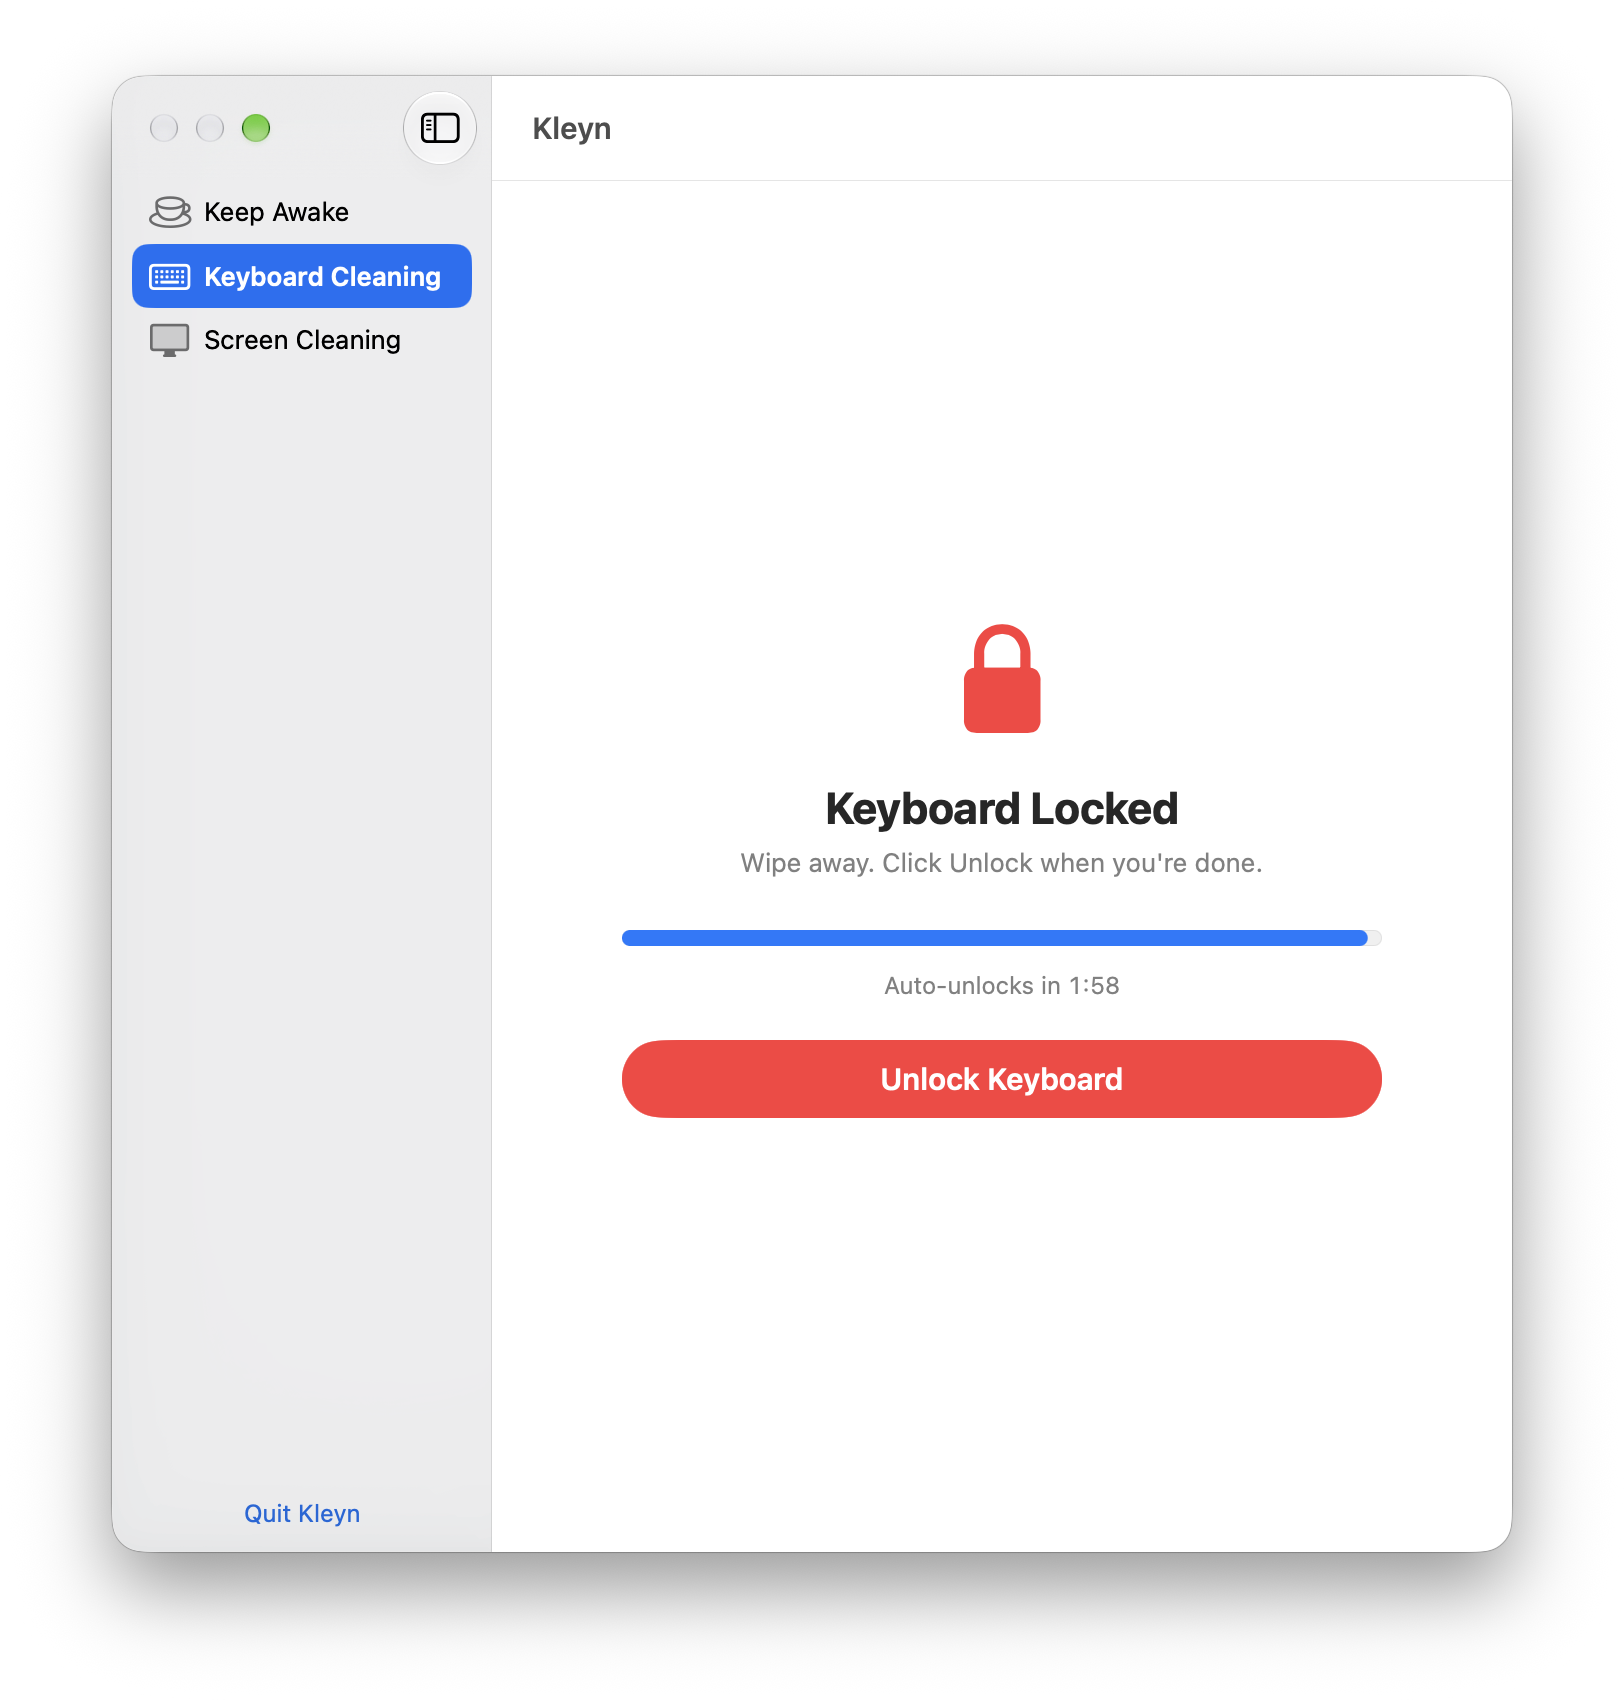
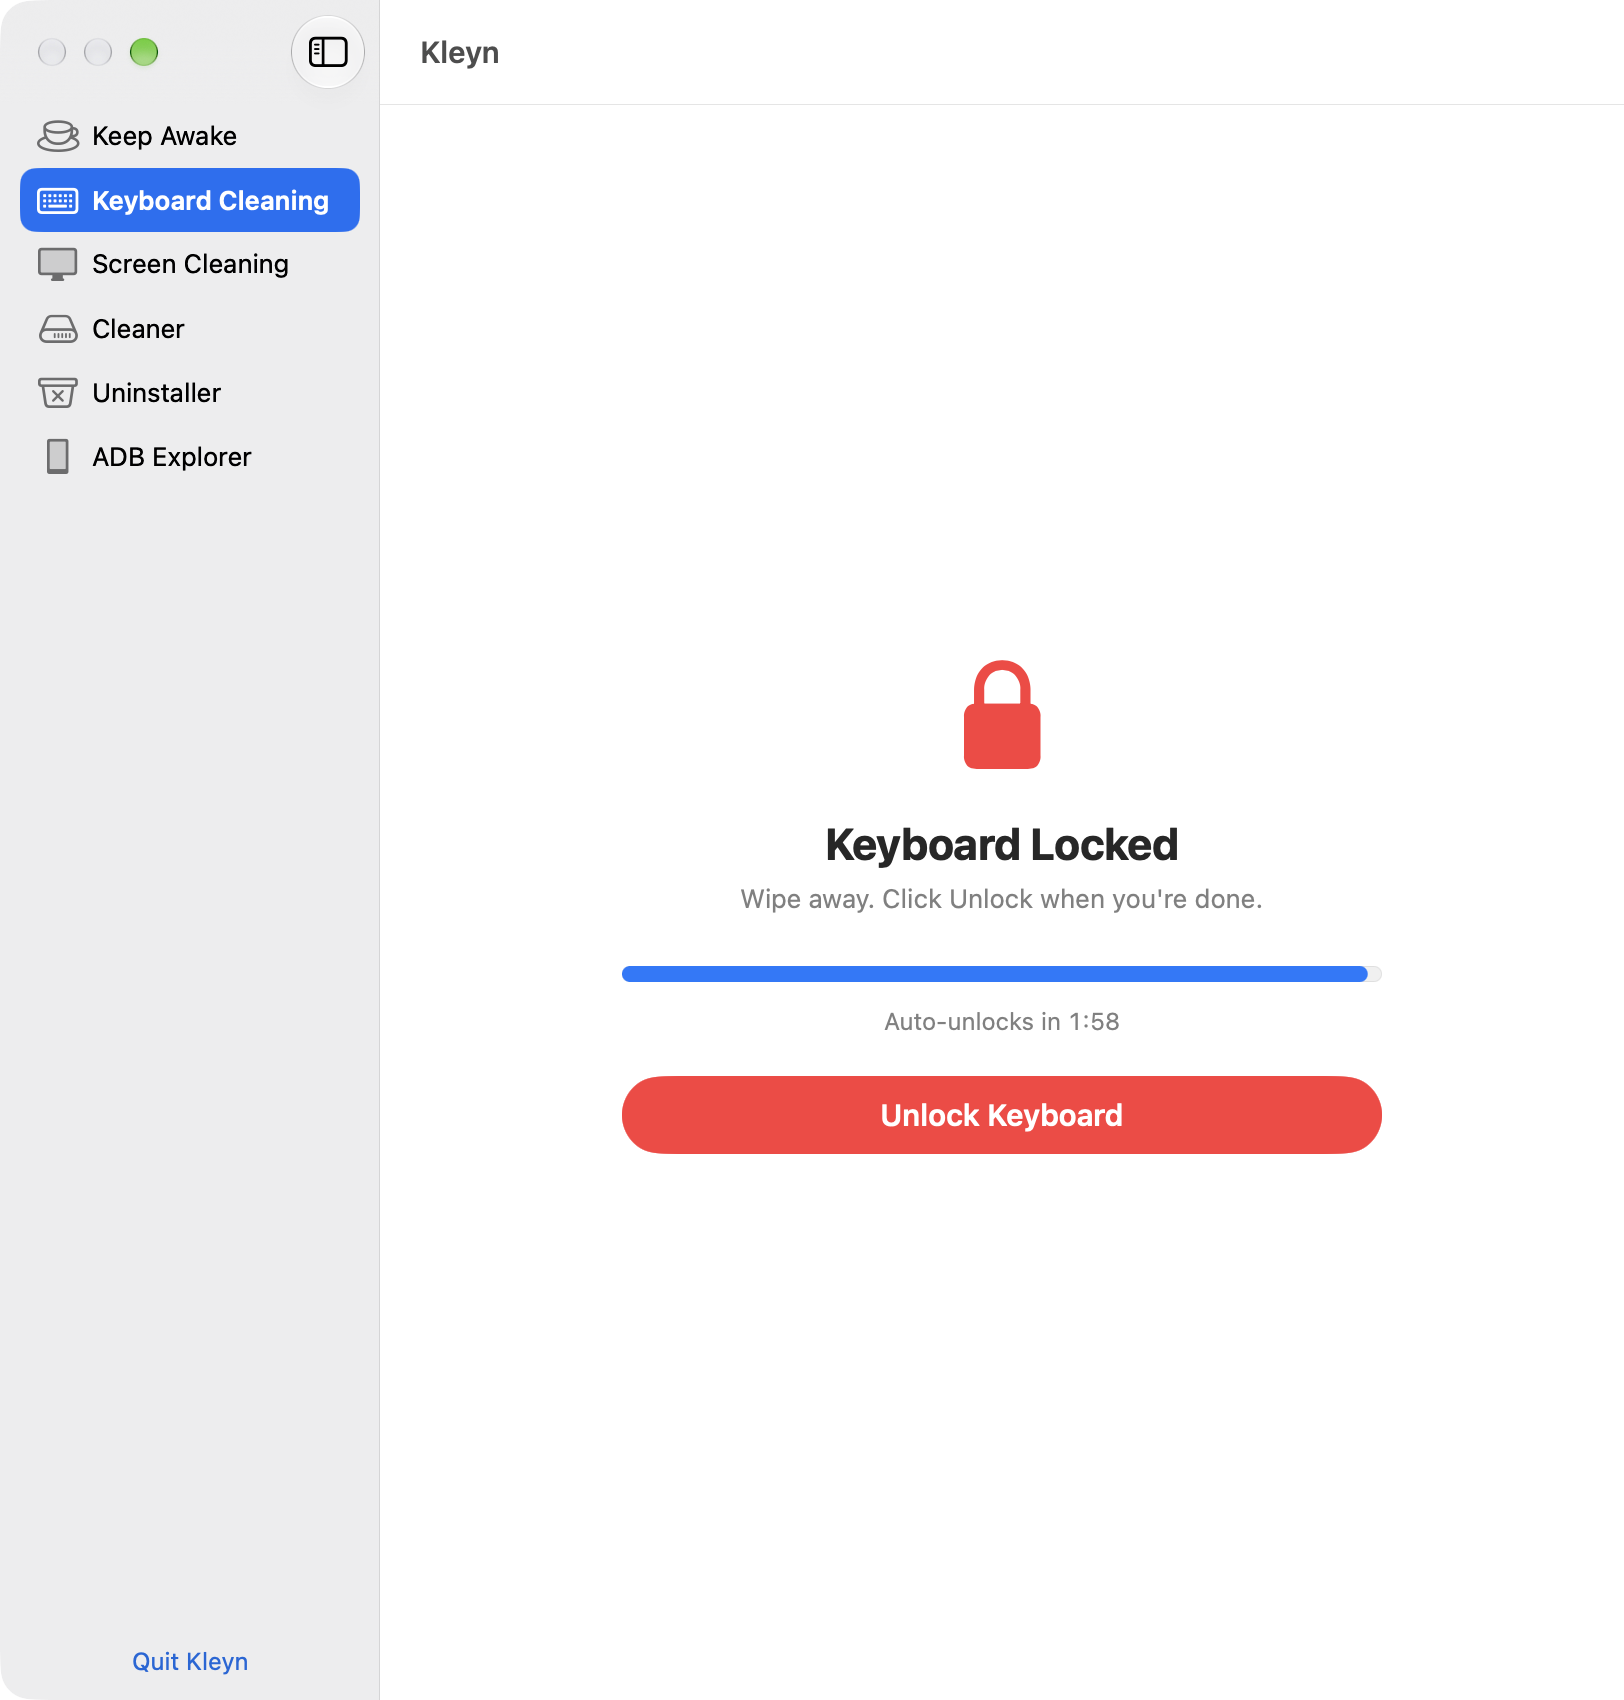
Retake the README screenshots and add the new pages
Retake the Keep Awake, Keyboard Cleaning and Screen Cleaning shots
with the full sidebar, at the same size as before, and add shots of
the Cleaner, the Uninstaller and ADB Explorer, in two rows of three.
Drop the mentions of porting from How it works.

diff --git a/README.md b/README.md
@@ -14,6 +14,10 @@
   <img src="docs/images/keep-awake.png" width="270" alt="Kleyn's Keep Awake page keeping the Mac awake for 1 hour">
   <img src="docs/images/keyboard.png" width="270" alt="Kleyn's Keyboard Cleaning page with the keyboard locked and the auto-unlock countdown running">
   <img src="docs/images/screen.png" width="270" alt="Kleyn's Screen Cleaning page with the Clean Screen button">
+  <br>
+  <img src="docs/images/cleaner.png" width="270" alt="Kleyn's Cleaner page after a scan, with the Gradle cache and Xcode's DerivedData marked to move to the Trash">
+  <img src="docs/images/uninstaller.png" width="270" alt="Kleyn's Uninstaller page for Visual Studio Code, listing the app and the files it left in the Library folder">
+  <img src="docs/images/adb-explorer.png" width="270" alt="Kleyn's ADB Explorer page browsing the folders on a Pixel 8, with its Android version, free space and battery">
 </p>
 
 ## Features
@@ -180,13 +184,13 @@ All the locking logic is in [`KeyboardLocker.swift`](Kleyn/KeyboardLocker.swift)
 
 Screen cleaning uses one borderless window per display, above the menu bar and Dock, and doesn't touch the keyboard lock. Those windows handle Esc, Space and clicks themselves; other keys are ignored, and ⌘ shortcuts like ⌘Q still work. The code is in [`ScreenCleaner.swift`](Kleyn/ScreenCleaner.swift).
 
-Keep Awake holds IOKit power assertions, the same ones `caffeinate -i` and `-d` take: one against idle system sleep, and one against idle display sleep unless the display may sleep. They belong to Kleyn's process, so macOS drops them when Kleyn quits or crashes. The code is in [`KeepAwake.swift`](Kleyn/KeepAwake.swift), and the parts without I/O (typed times, labels, which apps to list) are in [`KeepAwakeRules.swift`](Kleyn/KeepAwakeRules.swift), ported from the [Mac Caffeinater](https://github.com/tyastonotaufiq/claude-mods/tree/main/mac-caffeinater) mod.
+Keep Awake holds IOKit power assertions, the same ones `caffeinate -i` and `-d` take: one against idle system sleep, and one against idle display sleep unless the display may sleep. They belong to Kleyn's process, so macOS drops them when Kleyn quits or crashes. The code is in [`KeepAwake.swift`](Kleyn/KeepAwake.swift), and the parts without I/O (typed times, labels, which apps to list) are in [`KeepAwakeRules.swift`](Kleyn/KeepAwakeRules.swift).
 
-The Cleaner measures each folder itself, adding up the disk space of every file inside the way `du` does, four folders at a time and off the main thread. It moves items with `FileManager.trashItem`. The code is in [`Cleaner.swift`](Kleyn/Cleaner.swift), and the parts without I/O (what's scanned, how results become rows, what may be moved) are in [`CleanerRules.swift`](Kleyn/CleanerRules.swift), ported from the [Mac Cleaner](https://github.com/tyastonotaufiq/claude-mods/tree/main/mac-cleaner) mod.
+The Cleaner measures each folder itself, adding up the disk space of every file inside the way `du` does, four folders at a time and off the main thread. It moves items with `FileManager.trashItem`. The code is in [`Cleaner.swift`](Kleyn/Cleaner.swift), and the parts without I/O (what's scanned, how results become rows, what may be moved) are in [`CleanerRules.swift`](Kleyn/CleanerRules.swift).
 
-The Uninstaller reads each app's `Info.plist` itself, asks Launch Services whether a removed app is installed somewhere else, and runs `systemextensionsctl list` for system extensions, which no API lists. It shows files with `NSWorkspace.activateFileViewerSelecting`. Sizes come from the code the Cleaner uses, in [`DiskUsage.swift`](Kleyn/DiskUsage.swift). The code is in [`Uninstaller.swift`](Kleyn/Uninstaller.swift), and the parts without I/O (where apps leave files, matching, what may be shown) are in [`UninstallerRules.swift`](Kleyn/UninstallerRules.swift), ported from the [Mac Uninstaller](https://github.com/tyastonotaufiq/claude-mods/tree/main/mac-uninstaller) mod.
+The Uninstaller reads each app's `Info.plist` itself, asks Launch Services whether a removed app is installed somewhere else, and runs `systemextensionsctl list` for system extensions, which no API lists. It shows files with `NSWorkspace.activateFileViewerSelecting`. Sizes come from the code the Cleaner uses, in [`DiskUsage.swift`](Kleyn/DiskUsage.swift). The code is in [`Uninstaller.swift`](Kleyn/Uninstaller.swift), and the parts without I/O (where apps leave files, matching, what may be shown) are in [`UninstallerRules.swift`](Kleyn/UninstallerRules.swift).
 
-ADB Explorer runs `adb` as an argument list, off the main thread. Commands for the phone's own shell (listing, folder sizes, the header, delete) are quoted for it. Dragging an item to Finder is a file promise: Finder asks for the item when you drop it, and Kleyn pulls it then. The code is in [`AdbExplorer.swift`](Kleyn/AdbExplorer.swift) and [`AdbDragItem.swift`](Kleyn/AdbDragItem.swift), and the parts that run nothing (where `adb` is, the commands and their quoting, parsing, what may be deleted) are in [`AdbRules.swift`](Kleyn/AdbRules.swift), ported from the [ADB Explorer](https://github.com/tyastonotaufiq/claude-mods/tree/main/adb-explorer) mod.
+ADB Explorer runs `adb` as an argument list, off the main thread. Commands for the phone's own shell (listing, folder sizes, the header, delete) are quoted for it. Dragging an item to Finder is a file promise: Finder asks for the item when you drop it, and Kleyn pulls it then. The code is in [`AdbExplorer.swift`](Kleyn/AdbExplorer.swift) and [`AdbDragItem.swift`](Kleyn/AdbDragItem.swift), and the parts that run nothing (where `adb` is, the commands and their quoting, parsing, what may be deleted) are in [`AdbRules.swift`](Kleyn/AdbRules.swift).
 
 ## Building
 

diff --git a/docs/PORTING.md b/docs/PORTING.md
@@ -358,6 +358,6 @@ Rules that carry over from today:
 - **Menu bar:** only for Keep Awake, or a menu bar icon for Kleyn as a whole (lock keyboard, clean screen, keep awake)?
 - **Full Disk Access:** Step 2 decided: a note on the page only when a scan couldn't read some folders. Step 3 can reuse it.
 - **Keyboard shortcuts:** add the mods' shortcuts (`r` rescan, `t` trash…) to the app, or rely on buttons and standard ⌘ shortcuts? Step 2 decided: standard ⌘ shortcuts (⌘R, ⌘⌫).
-- **README screenshots:** the three at the top still show the old sidebar (Keep Awake, Keyboard Cleaning, Screen Cleaning). Retake them all after Step 4, when no page has a Soon badge, and add the Cleaner and the Uninstaller. Decide then how to lay out five or six images instead of three.
+- **README screenshots:** retaken on 2026-11-18 at the same size as before (812 × 850 points, no shadow), with the Cleaner, the Uninstaller and ADB Explorer added: two rows of three.
 - **DMG background:** its text ("Drag Kleyn to Applications") doesn't need to change. Check after the README and screenshots change.
 - **App icon:** the keyboard-with-sparkles icon fits less once Kleyn does more. Keep it or redesign it later?
